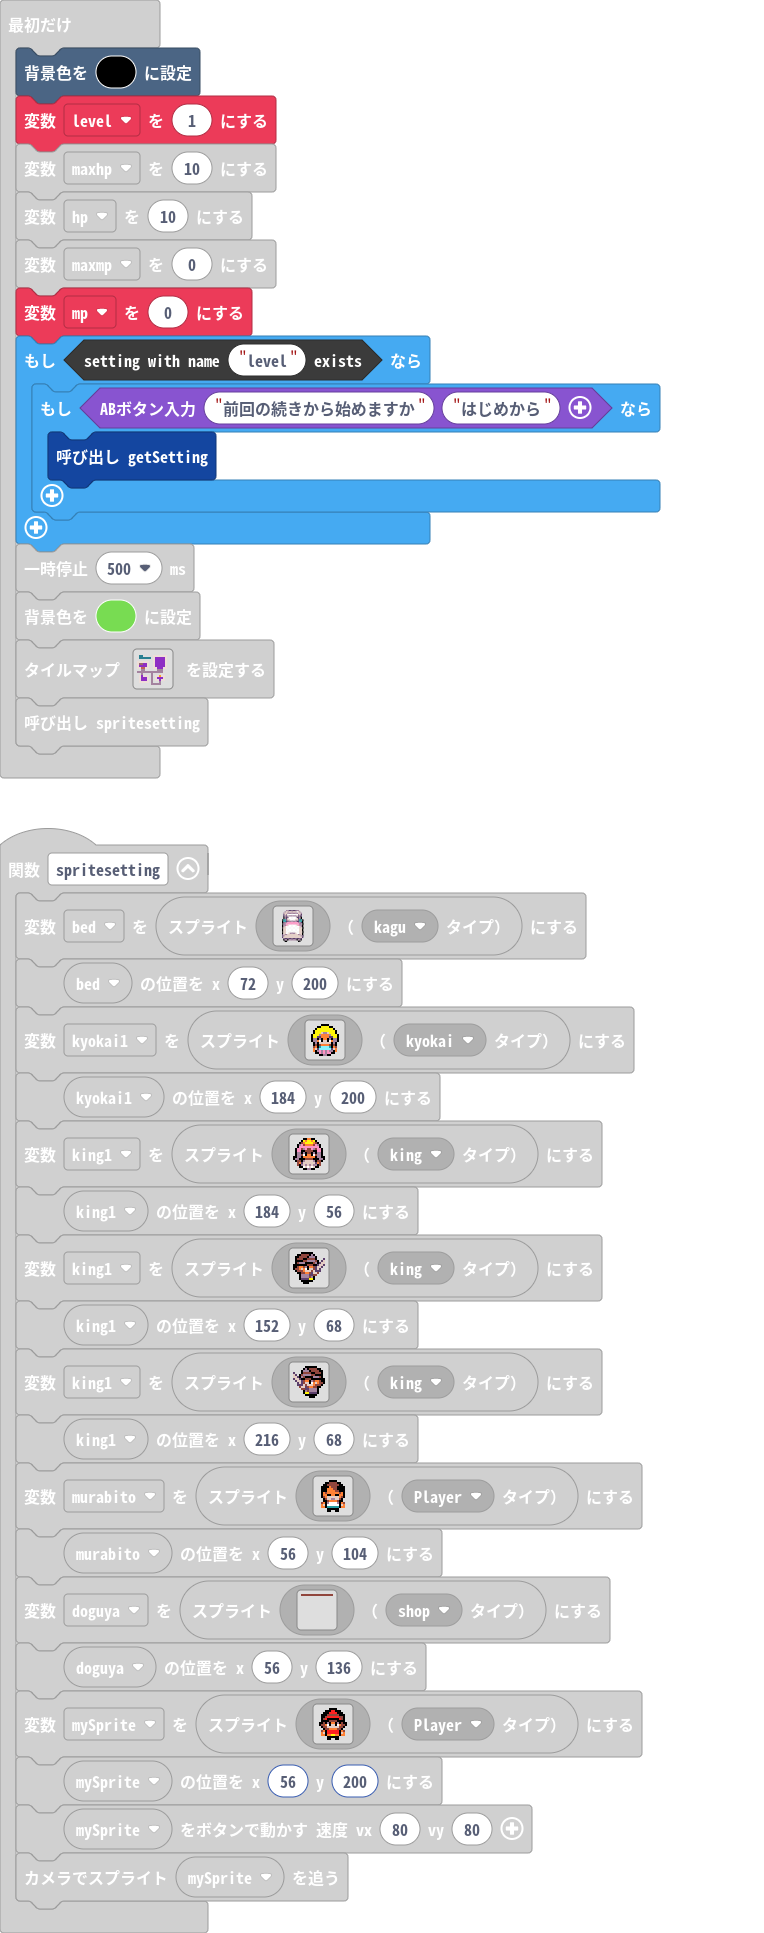
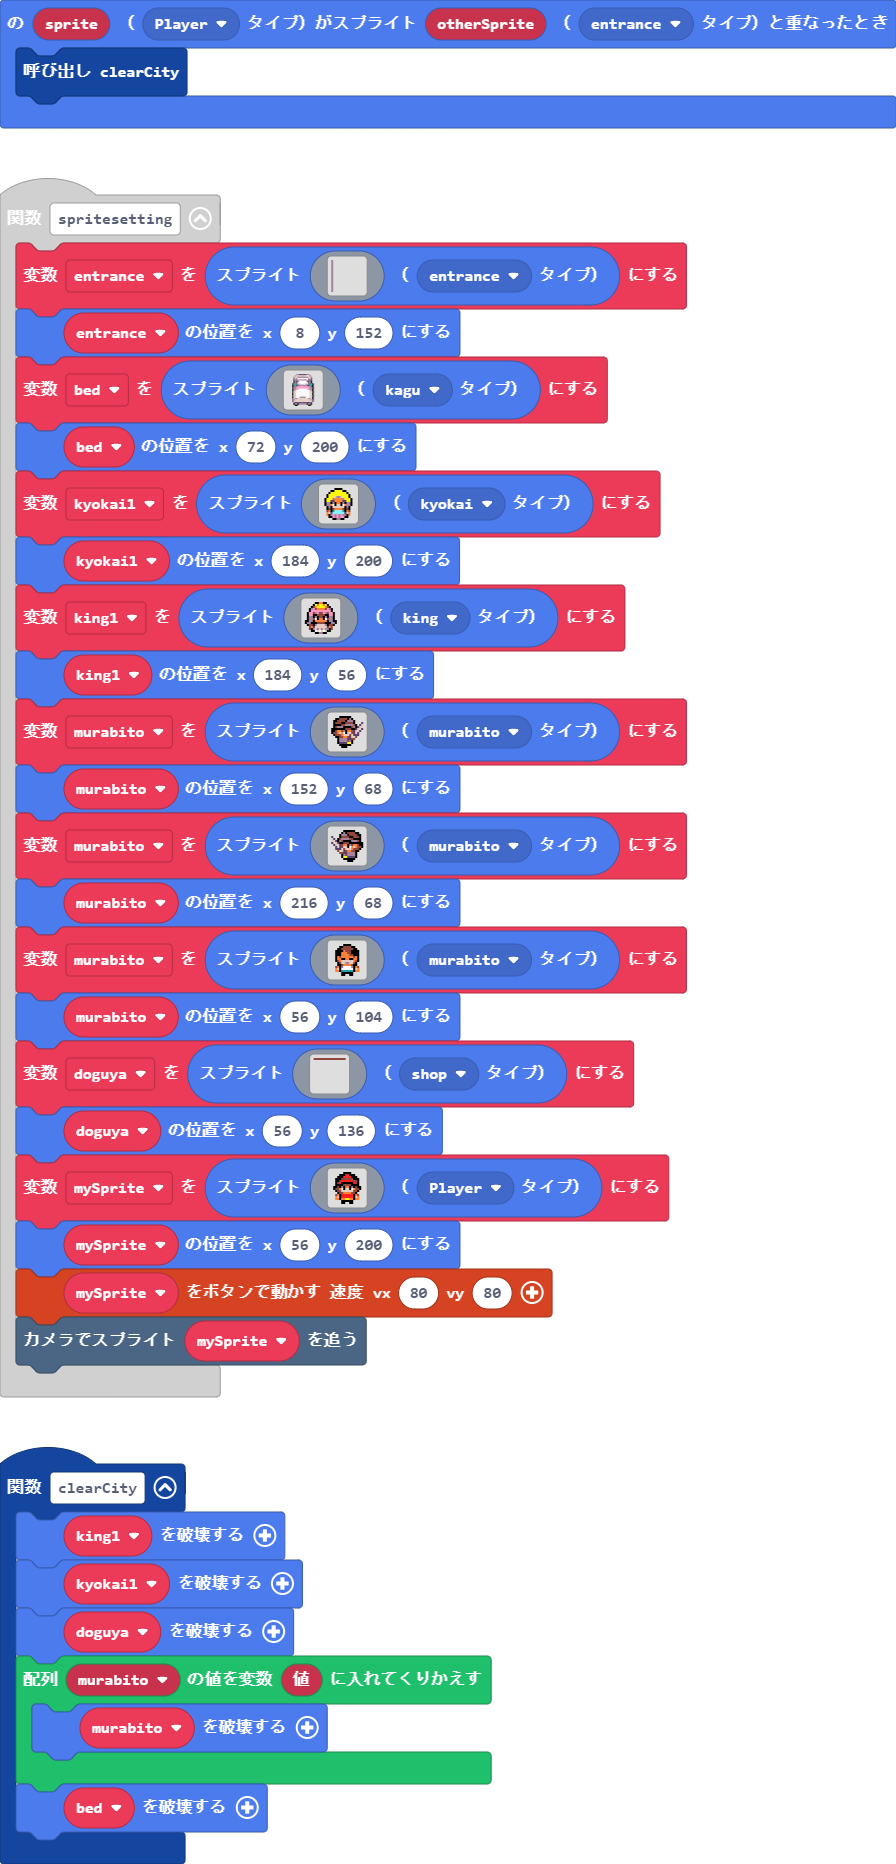
更新 main.blocks, main.ts

diff --git a/main.ts b/main.ts
@@ -3,6 +3,8 @@ namespace SpriteKind {
     export const king = SpriteKind.create()
     export const shop = SpriteKind.create()
     export const kyokai = SpriteKind.create()
+    export const entrance = SpriteKind.create()
+    export const murabito = SpriteKind.create()
 }
 controller.right.onEvent(ControllerButtonEvent.Pressed, function () {
     animation.runImageAnimation(
@@ -88,6 +90,25 @@ function getSetting () {
     mp = blockSettings.readNumber("mp")
 }
 function spritesetting () {
+    entrance = sprites.create(img`
+        b . . . . . . . . . . . . . . . 
+        b . . . . . . . . . . . . . . . 
+        b . . . . . . . . . . . . . . . 
+        b . . . . . . . . . . . . . . . 
+        b . . . . . . . . . . . . . . . 
+        b . . . . . . . . . . . . . . . 
+        b . . . . . . . . . . . . . . . 
+        b . . . . . . . . . . . . . . . 
+        b . . . . . . . . . . . . . . . 
+        b . . . . . . . . . . . . . . . 
+        b . . . . . . . . . . . . . . . 
+        b . . . . . . . . . . . . . . . 
+        b . . . . . . . . . . . . . . . 
+        b . . . . . . . . . . . . . . . 
+        b . . . . . . . . . . . . . . . 
+        b . . . . . . . . . . . . . . . 
+        `, SpriteKind.entrance)
+    entrance.setPosition(8, 152)
     bed = sprites.create(img`
         ...bbccccccbb...
         ..bdddddddd1db..
@@ -153,7 +174,7 @@ function spritesetting () {
         . . . . . f f b b f f . . . . . 
         `, SpriteKind.king)
     king1.setPosition(184, 56)
-    king1 = sprites.create(img`
+    murabito = sprites.create(img`
         . . . . f f f f f f . . . . . . 
         . . f f e e e e f b f . . . . . 
         . f f e e e e f b b b f . . . . 
@@ -170,9 +191,9 @@ function spritesetting () {
         . . . f c c c c 5 5 f . . . . . 
         . . . . f f f f f f . . . . . . 
         . . . . . f f f . . . . . . . . 
-        `, SpriteKind.king)
-    king1.setPosition(152, 68)
-    king1 = sprites.create(img`
+        `, SpriteKind.murabito)
+    murabito.setPosition(152, 68)
+    murabito = sprites.create(img`
         . . . . . . f f f f f f . . . . 
         . . . . . f b f e e e e f f . . 
         . . . . f b b b f e e e e f f . 
@@ -189,8 +210,8 @@ function spritesetting () {
         . . . . . f 5 5 c c c c f . . . 
         . . . . . . f f f f f f . . . . 
         . . . . . . . . f f f . . . . . 
-        `, SpriteKind.king)
-    king1.setPosition(216, 68)
+        `, SpriteKind.murabito)
+    murabito.setPosition(216, 68)
     murabito = sprites.create(img`
         . . . . f f f f . . . . 
         . . f f e e e e f f . . 
@@ -208,7 +229,7 @@ function spritesetting () {
         4 4 f 6 6 6 6 6 6 f 4 4 
         . . . f f f f f f . . . 
         . . . f f . . f f . . . 
-        `, SpriteKind.Player)
+        `, SpriteKind.murabito)
     murabito.setPosition(56, 104)
     doguya = sprites.create(img`
         e e e e e e e e e e e e e e e e 
@@ -251,6 +272,9 @@ function spritesetting () {
     controller.moveSprite(mySprite, 80, 80)
     scene.cameraFollowSprite(mySprite)
 }
+sprites.onOverlap(SpriteKind.Player, SpriteKind.entrance, function (sprite, otherSprite) {
+    clearCity()
+})
 controller.down.onEvent(ControllerButtonEvent.Pressed, function () {
     animation.runImageAnimation(
     mySprite,
@@ -327,6 +351,15 @@ controller.down.onEvent(ControllerButtonEvent.Pressed, function () {
     true
     )
 })
+function clearCity () {
+    king1.destroy()
+    kyokai1.destroy()
+    doguya.destroy()
+    for (let 値 of murabito) {
+        murabito.destroy()
+    }
+    bed.destroy()
+}
 controller.left.onEvent(ControllerButtonEvent.Pressed, function () {
     animation.runImageAnimation(
     mySprite,
@@ -514,6 +547,7 @@ let murabito: Sprite = null
 let king1: Sprite = null
 let kyokai1: Sprite = null
 let bed: Sprite = null
+let entrance: Sprite = null
 let mySprite: Sprite = null
 let mp = 0
 let maxmp = 0
